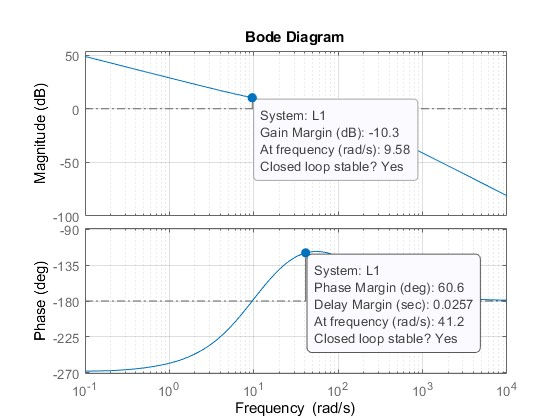
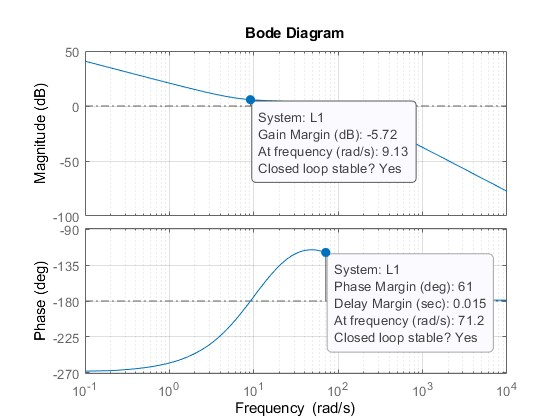
ll

diff --git a/progv1.m b/progv1.m
@@ -37,8 +37,8 @@ figure(1)
 bode(L)
 grid on 
 
-figure(2)
-rlocus(L)
+figure(3)
+nyquist(L)
 grid on
 %% rete ancitipatrice 
 w=60;
@@ -55,14 +55,16 @@ grid on
 figure(2)
 rlocus(L1)
 grid on
-
+figure(3)
+nyquist(L)
+grid on
 %% analisi delle prestazioni
 T=0.01;
 R=pade(exp(-T*s/2),10);
 L2=minreal(L1*R);
 Wyr=minreal(L2/(1+L2));
 figure(5)
-bode(L2)
+bode(minreal(L2))
 grid on
 t=0:20;
 figure(1)
